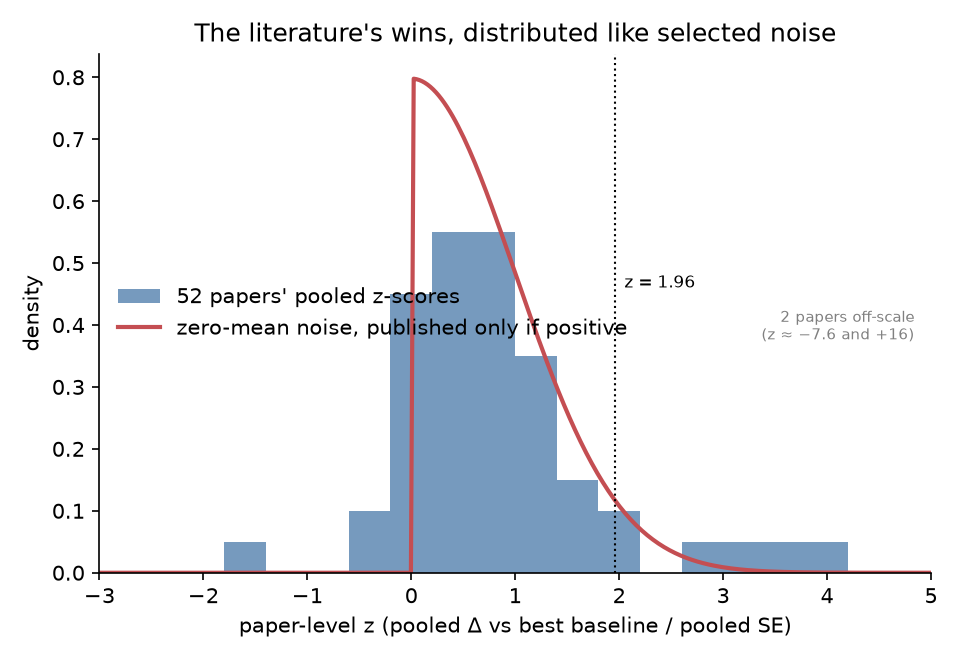
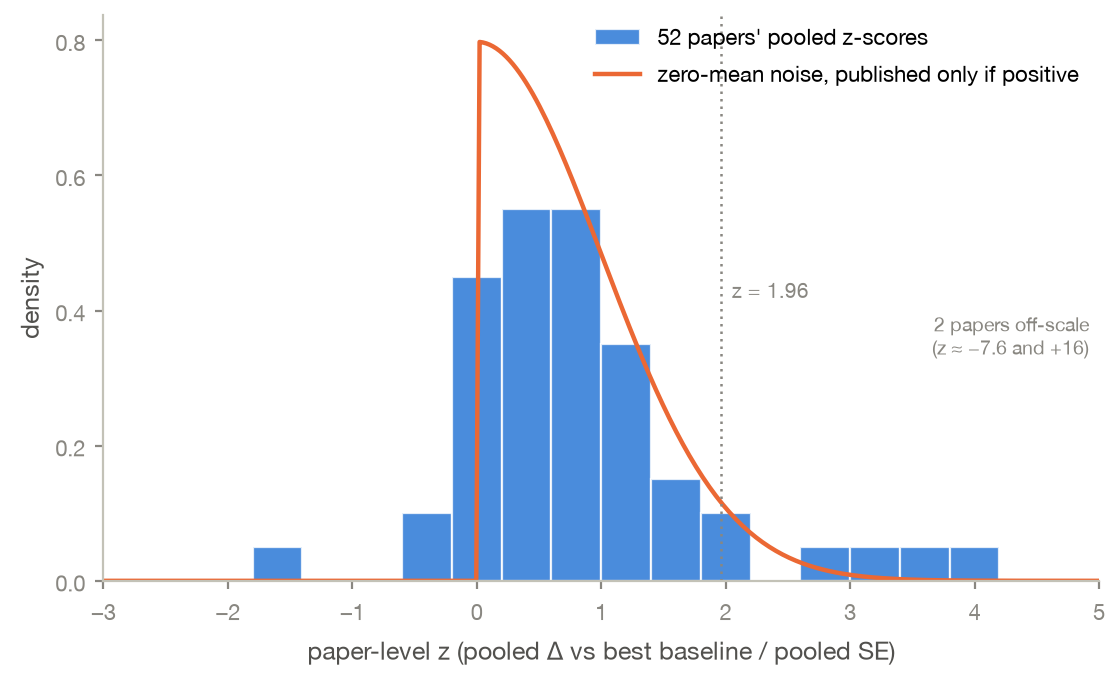
Retitle post, move date to blog list, redesign figures, drop fixes/limitations sections

diff --git a/blog/checking-170-distillation-papers.html b/blog/checking-170-distillation-papers.html
@@ -2,15 +2,14 @@
 <html>
   <head>
     <meta name="viewport" content="width=device-width, initial-scale=1">
-    <title>Checking 170 distillation papers against their own tables</title>
-    <link rel="stylesheet" type="text/css" href="../styles.css?v=2">
+    <title>Checking distillation papers</title>
+    <link rel="stylesheet" type="text/css" href="../styles.css?v=3">
     <link href="https://fonts.googleapis.com/css2?family=Inter:wght@400;600&display=swap" rel="stylesheet">
   </head>
   <body>
     <div class="post">
       <p><a href="../index.html">&larr; back</a></p>
-      <h1>Checking 170 distillation papers against their own tables</h1>
-      <p class="post-date">July 2026</p>
+      <h1>Checking distillation papers</h1>
 
       <p>On-policy distillation is a post-training technique where a student model generates its own solutions, a teacher model scores every token of them, and the student trains on that signal. It works well and everyone uses it. It's in the recipes of DeepSeek-v4, Qwen3, GLM-5, MiMo-v2.</p>
 
@@ -35,7 +34,7 @@
 
       <p>We took every method-versus-best-baseline comparison from the 52 papers with usable tables, 372 comparisons in total, and plotted each one against its benchmark's noise floor:</p>
 
-      <img src="figures/r1_noise_floor.png" alt="Every claimed improvement vs its benchmark's noise floor">
+      <img src="figures/r1_noise_floor.png?v=2" alt="Every claimed improvement vs its benchmark's noise floor">
 
       <p>94.4% of the comparisons (351 of 372) are inside the floor. If you restrict to the AIME-class benchmarks with 30 or 40 problems, it's 230 out of 230.</p>
 
@@ -53,7 +52,7 @@
 
       <p>So here's the version that survives: 62% of the Qwen3 base rows in this corpus (428 of 694) print a model string that does not identify what was measured. A bare "Qwen3-8B", with the thinking mode stated nowhere in the paper. Here is every such row for Qwen3-8B on AIME24:</p>
 
-      <img src="figures/r3_base_rows.png" alt="Every printed Qwen3-8B base row on AIME24">
+      <img src="figures/r3_base_rows.png?v=2" alt="Every printed Qwen3-8B base row on AIME24">
 
       <p>The bare rows span 21 to 76. And the spread isn't mysterious. Three rows that looked like outliers turned out to be, once I read the papers carefully: one evaluated with thinking disabled (25.4), one with an 8,192 token generation cap (38.3), one with a 16,384 token cap (58.1). All three numbers are correct as printed. They're just not comparable to anyone else's table, and nothing in the tables tells you that. 42 of 63 papers never state whether thinking mode was on. 12 of 63 fully state their sampling settings in the main text.</p>
 
@@ -65,7 +64,7 @@
 
       <p>45 of the 63 papers we checked name at least one rival 2026 variant in their related work section. Several call one "the closest prior work." Then in the results table, the opponents are the same 2024-era anchors every other paper fights: SFT, GKD, vanilla OPD, SDPO, GRPO.</p>
 
-      <img src="figures/r4_named_vs_benchmarked.png" alt="Named vs actually benchmarked">
+      <img src="figures/r4_named_vs_benchmarked.png?v=2" alt="Named vs actually benchmarked">
 
       <p>RLSD is the exception; it actually appears in seven other papers' tables. TIP appears in two. Nearly everything else appears in zero or one.</p>
 
@@ -77,7 +76,7 @@
 
       <p>Take all 52 papers' pooled z-scores against their own best baselines:</p>
 
-      <img src="figures/r2_zdist.png" alt="Paper-level z distribution">
+      <img src="figures/r2_zdist.png?v=2" alt="Paper-level z distribution">
 
       <p>86.5% of papers report a positive pooled delta. The quantiles of the distribution (0.24, 0.62, 1.16, 1.92) sit nearly on top of a standard normal truncated at zero (0.32, 0.67, 1.15, 1.64), which is what you'd get by publishing zero-mean noise whenever it comes out positive.</p>
 
@@ -99,20 +98,6 @@
       <p>ShortOPD is the strongest result in the corpus and it also quietly makes the whole point of this post. Its huge z comes from comparing on-policy recovery of pruned models against off-policy baselines. Against its nearest on-policy competitor, its own Figure 5(b) shows vanilla OPD matching it within about two points. The most significant paper in the variant literature is significant because the 2024 technique it decorates is good.</p>
 
       <p>So the total yield of ~170 papers, by the literature's own strictest screen: one result in a different model class, one well-seeded win, two unseeded wins, and one confirmation of vanilla OPD wearing a variant's name.</p>
-
-      <h3>What would fix this</h3>
-
-      <p>I don't think this is a story about dishonest authors. It's three structural problems stacking: benchmarks that are two or three orders of magnitude too small for the claimed effects, evaluations whose most score-moving settings go unstated, and no habit of testing against last month's variant instead of 2024's anchors.</p>
-
-      <p>The fixes are cheap. State the eval config; the cross-lab cells that agree are exactly the ones that share checkpoint variant, thinking mode, temperature, top-p, max tokens, and k. Report a confidence interval against your best baseline; it's one line of arithmetic. Benchmark the method you call closest prior work; you already built the harness. And size the benchmark to the claim; a 1.6 point claim needs thousands of problems. The tight -Base cells show the field already owns an instrument with roughly 1 point of cross-lab resolution. It just mostly doesn't use it.</p>
-
-      <h3>Limitations</h3>
-
-      <p>The extraction was done by LLM agents, which is exactly the kind of thing you should distrust, so we audited it: 33 of the 52 papers were verified row by row against the source tables, about 1,300 numbers re-derived, 2 wrong cells found. Both were corrected and neither changes any number above. That's a cell error rate around 0.2%.</p>
-
-      <p>Other things to know before quoting this. The noise floor model is between-problem binomial and excludes seed variance, which makes the floors conservative. The pairing correlation between methods is unknown, hence the sweep. "Best baseline" is each paper's own order statistic, which biases the literature's claimed deltas upward, also conservative for us. The four analyses share one dataset, so they're complementary views, not independent confirmations. The configuration-complete cells may partly agree because labs copy the same harness, not just because they disclose; separating those would take an experiment we haven't run. Corpus is arXiv, January to July 2026, cutoff July 21. An earlier internal version of the stratified cross-lab number was 2.7 points; the 0.6 to 2.3 above is what I can reproduce from the released files, and each stratified cell has only 3 to 5 papers, so it's noisy.</p>
-
-      <p>The extraction files, the four analysis scripts, the preregistration (including the part where its planned analysis died on contact with the data), and the verification log are released with this post. If you find a third wrong cell, tell me.</p>
 
       <p><a href="../index.html">&larr; back</a></p>
     </div>

diff --git a/index.html b/index.html
@@ -2,7 +2,7 @@
 <html>
   <head>
     <meta name="viewport" content="width=device-width, initial-scale=1">
-    <link rel="stylesheet" type="text/css" href="styles.css?v=2">
+    <link rel="stylesheet" type="text/css" href="styles.css?v=3">
     <link href="https://fonts.googleapis.com/css2?family=Inter:wght@400;600&display=swap" rel="stylesheet">
   </head>
   <body>
@@ -57,8 +57,9 @@
               <ul>
                 <li>
                   <a href="blog/checking-170-distillation-papers.html">
-                    Checking 170 distillation papers against their own tables
+                    Checking distillation papers
                   </a>
+                  <span class="blog-date">Thu Jul 23 2026</span>
                 </li>
               </ul>
             </div>

diff --git a/styles.css b/styles.css
@@ -148,9 +148,9 @@ img {
   text-align: left;
 }
 
-.post .post-date {
+.blog-date {
   color: #666;
-  margin-bottom: 30px;
+  margin-left: 6px;
 }
 
 @media print, screen and (max-width: 960px) {
